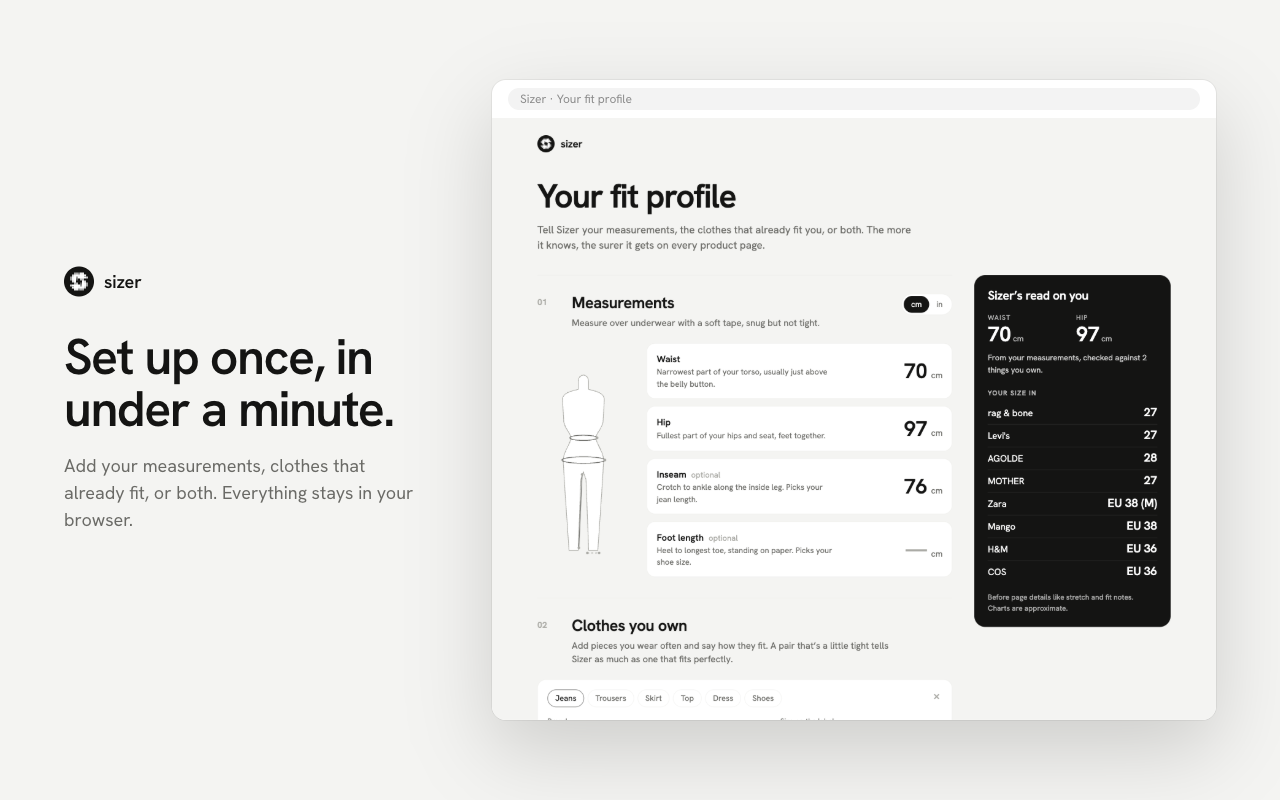
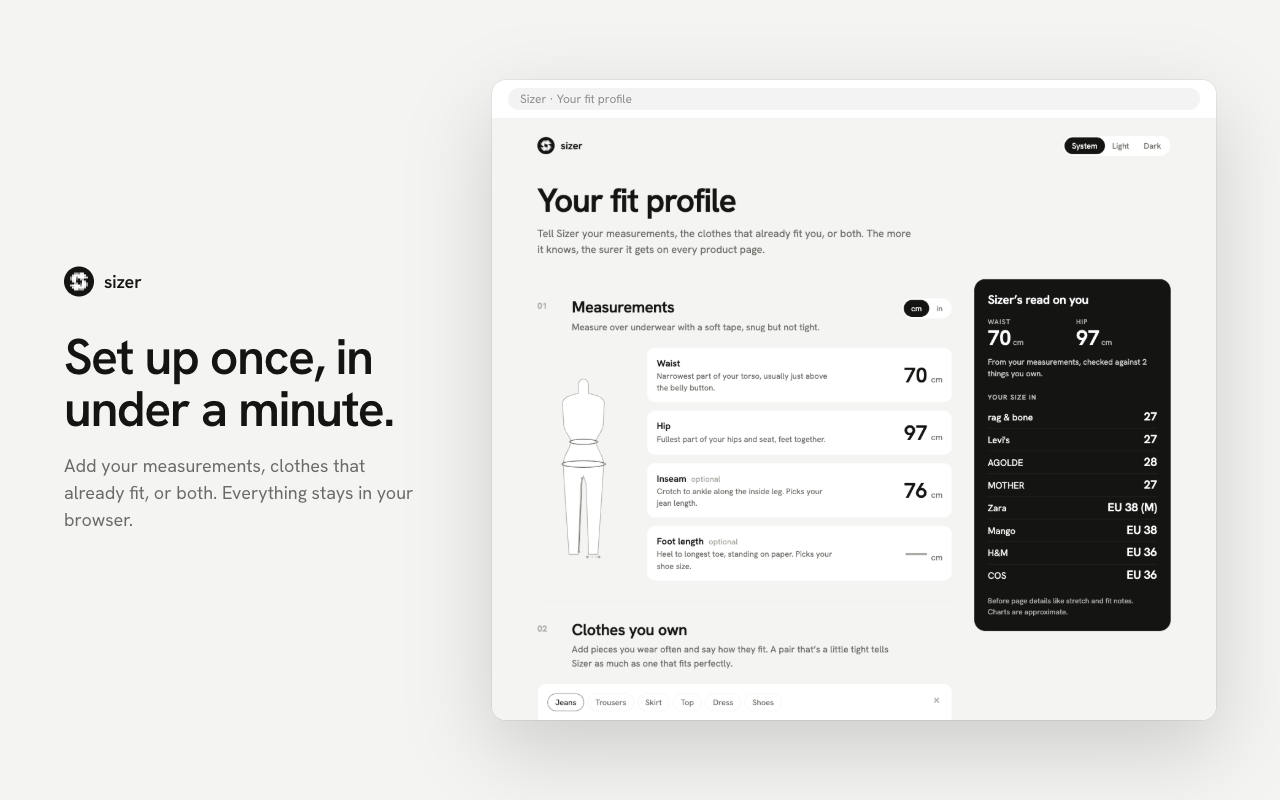
Let the fit profile pin light or dark instead of only following the system
An Appearance control in the page header: System, Light or Dark, saved with the
profile and applied to the popup too. Pinned themes set data-theme on <html>;
the stylesheets keep following the OS when nothing is pinned.

diff --git a/ui/options.css b/ui/options.css
@@ -14,8 +14,9 @@
   --sans: "Hanken Grotesk", "Helvetica Neue", Helvetica, Arial, sans-serif;
   color-scheme: light dark;
 }
+/* Appearance follows the system unless the profile pins light or dark (data-theme on <html>). */
 @media (prefers-color-scheme: dark) {
-  :root {
+  :root:not([data-theme="light"]) {
     --paper: #121212;
     --card: #1c1c1b;
     --ink: #f2f2ef;
@@ -27,8 +28,24 @@
     --accent-soft: #2a2a28;
     --accent-ink: #121212;
     --warn: #f0998f;
+    color-scheme: dark;
   }
 }
+:root[data-theme="dark"] {
+  --paper: #121212;
+  --card: #1c1c1b;
+  --ink: #f2f2ef;
+  --muted: #a3a39e;
+  --faint: #6c6c68;
+  --line: #2c2c2a;
+  --field: #242423;
+  --accent: #f2f2ef;
+  --accent-soft: #2a2a28;
+  --accent-ink: #121212;
+  --warn: #f0998f;
+  color-scheme: dark;
+}
+:root[data-theme="light"] { color-scheme: light; }
 
 * { box-sizing: border-box; }
 body { margin: 0; background: var(--paper); color: var(--ink); font: 15px/1.5 var(--sans); }
@@ -38,7 +55,8 @@ input { font: inherit; color: var(--ink); }
 
 .page { max-width: 1080px; margin: 0 auto; padding: 28px 24px 80px; }
 
-.top { display: flex; align-items: center; justify-content: space-between; }
+.top { display: flex; align-items: center; justify-content: space-between; gap: 14px; }
+.top .status { margin-left: auto; }
 .brandmark { display: flex; align-items: center; gap: 10px; font: 600 17px/1 var(--serif); letter-spacing: -0.01em; }
 .mark { display: inline-grid; place-items: center; width: 28px; height: 28px; border-radius: 50%; background: #141413; overflow: hidden; }
 .mark img { width: 26px; height: 26px; display: block; }
@@ -131,7 +149,8 @@ h2 { font: 600 26px/1.15 var(--serif); margin: 0; letter-spacing: -0.02em; }
 .read-card h3 { margin: 20px 0 6px; font-size: 11px; font-weight: 600; letter-spacing: 0.1em; text-transform: uppercase; opacity: 0.7; }
 .sizes { list-style: none; margin: 0; padding: 0; }
 .sizes li { display: flex; justify-content: space-between; align-items: baseline; padding: 7px 0; border-top: 1px solid rgba(255, 255, 255, 0.14); }
-@media (prefers-color-scheme: dark) { .sizes li { border-top-color: rgba(0, 0, 0, 0.14); } .warn { background: rgba(0, 0, 0, 0.1); } }
+@media (prefers-color-scheme: dark) { :root:not([data-theme="light"]) .sizes li { border-top-color: rgba(0, 0, 0, 0.14); } :root:not([data-theme="light"]) .warn { background: rgba(0, 0, 0, 0.1); } }
+:root[data-theme="dark"] .sizes li { border-top-color: rgba(0, 0, 0, 0.14); } :root[data-theme="dark"] .warn { background: rgba(0, 0, 0, 0.1); }
 .sizes li:first-child { border-top: 0; }
 .sizes b { font: 600 19px/1 var(--serif); }
 .fine { margin: 14px 0 0; font-size: 12px; opacity: 0.65; }

diff --git a/ui/ui.css b/ui/ui.css
@@ -11,8 +11,9 @@
   --sans: "Hanken Grotesk", "Helvetica Neue", Helvetica, Arial, sans-serif;
   color-scheme: light dark;
 }
+/* Appearance follows the system unless the profile pins light or dark (data-theme on <html>). */
 @media (prefers-color-scheme: dark) {
-  :root {
+  :root:not([data-theme="light"]) {
     --paper: #121212;
     --ink: #f2f2ef;
     --muted: #a3a39e;
@@ -20,8 +21,20 @@
     --accent: #f2f2ef;
     --accent-ink: #121212;
     --signal: #f0998f;
+    color-scheme: dark;
   }
 }
+:root[data-theme="dark"] {
+  --paper: #121212;
+  --ink: #f2f2ef;
+  --muted: #a3a39e;
+  --line: #2c2c2a;
+  --accent: #f2f2ef;
+  --accent-ink: #121212;
+  --signal: #f0998f;
+  color-scheme: dark;
+}
+:root[data-theme="light"] { color-scheme: light; }
 * { box-sizing: border-box; }
 body { width: 320px; margin: 0; padding: 18px 20px 14px; background: var(--paper); color: var(--ink); font: 14px/1.45 var(--sans); }
 button { font: inherit; cursor: pointer; }

diff --git a/ui/options.js b/ui/options.js
@@ -33,6 +33,12 @@ function bindSeg(group, value, onPick) {
   });
 }
 
+// 'system' follows the OS; 'light' and 'dark' pin it through data-theme on <html>.
+function applyTheme(theme) {
+  if (theme === 'light' || theme === 'dark') document.documentElement.dataset.theme = theme;
+  else delete document.documentElement.dataset.theme;
+}
+
 // ---- measurements ----------------------------------------------------------
 
 const toDisplay = (cm) => (cm === '' || cm == null ? '' : String(+(unit === 'cm' ? +cm : +cm / CM).toFixed(1)));
@@ -228,5 +234,7 @@ chrome.storage.sync.get({ profile: SIZER_DEFAULT_PROFILE }, ({ profile: stored }
     changed();
   });
   bindSeg($('fit'), profile.fitPreference || 'regular', (v) => { profile.fitPreference = v; changed(); });
+  applyTheme(profile.theme);
+  bindSeg($('theme'), profile.theme || 'system', (v) => { profile.theme = v; applyTheme(v); changed(); });
   renderRead();
 });

diff --git a/tests/chrome-stub.js b/tests/chrome-stub.js
@@ -3,7 +3,7 @@
 (function () {
   const q = new URLSearchParams(location.search);
   if (q.get('profile') === 'filled') {
-    localStorage.setItem('sizer', JSON.stringify({ profile: { anchors: [{ brand: 'Zara', type: 'jeans', size: '38', fit: 'perfect' }, { brand: 'rag & bone', type: 'jeans', size: '27', fit: 'tight' }], waist: '70', hip: '97', inseam: '30', unit: 'cm', fitPreference: 'regular' } }));
+    localStorage.setItem('sizer', JSON.stringify({ profile: { anchors: [{ brand: 'Zara', type: 'jeans', size: '38', fit: 'perfect' }, { brand: 'rag & bone', type: 'jeans', size: '27', fit: 'perfect' }], waist: '70', hip: '97', inseam: '30', unit: 'cm', fitPreference: 'regular' } }));
   } else if (q.get('profile') === 'none') {
     localStorage.removeItem('sizer');
   }

diff --git a/ui/options.html b/ui/options.html
@@ -12,6 +12,11 @@
     <header class="top">
       <div class="brandmark"><span class="mark" aria-hidden="true"><img src="../brand/mark.svg" alt=""></span>sizer</div>
       <span class="status" id="status" role="status" aria-live="polite"></span>
+      <div class="seg small" role="radiogroup" aria-label="Appearance" id="theme">
+        <button role="radio" data-v="system">System</button>
+        <button role="radio" data-v="light">Light</button>
+        <button role="radio" data-v="dark">Dark</button>
+      </div>
     </header>
 
     <div class="intro">

diff --git a/ui/popup.js b/ui/popup.js
@@ -42,6 +42,7 @@ document.querySelectorAll('[data-act="why"]').forEach((b) => {
 });
 
 chrome.storage.sync.get({ profile: SIZER_DEFAULT_PROFILE }, async ({ profile }) => {
+  if (profile.theme === 'light' || profile.theme === 'dark') document.documentElement.dataset.theme = profile.theme;
   const hasProfile = (profile.waist && profile.hip) || profile.anchors.length || profile.footLength;
   $('profile').textContent = summary(profile);
   if (!hasProfile) { show('s-setup'); return; }

diff --git a/src/defaults.js b/src/defaults.js
@@ -9,5 +9,6 @@
     footLength: '',
     unit: 'cm',
     fitPreference: 'regular',
+    theme: 'system',
   };
 })(globalThis);
